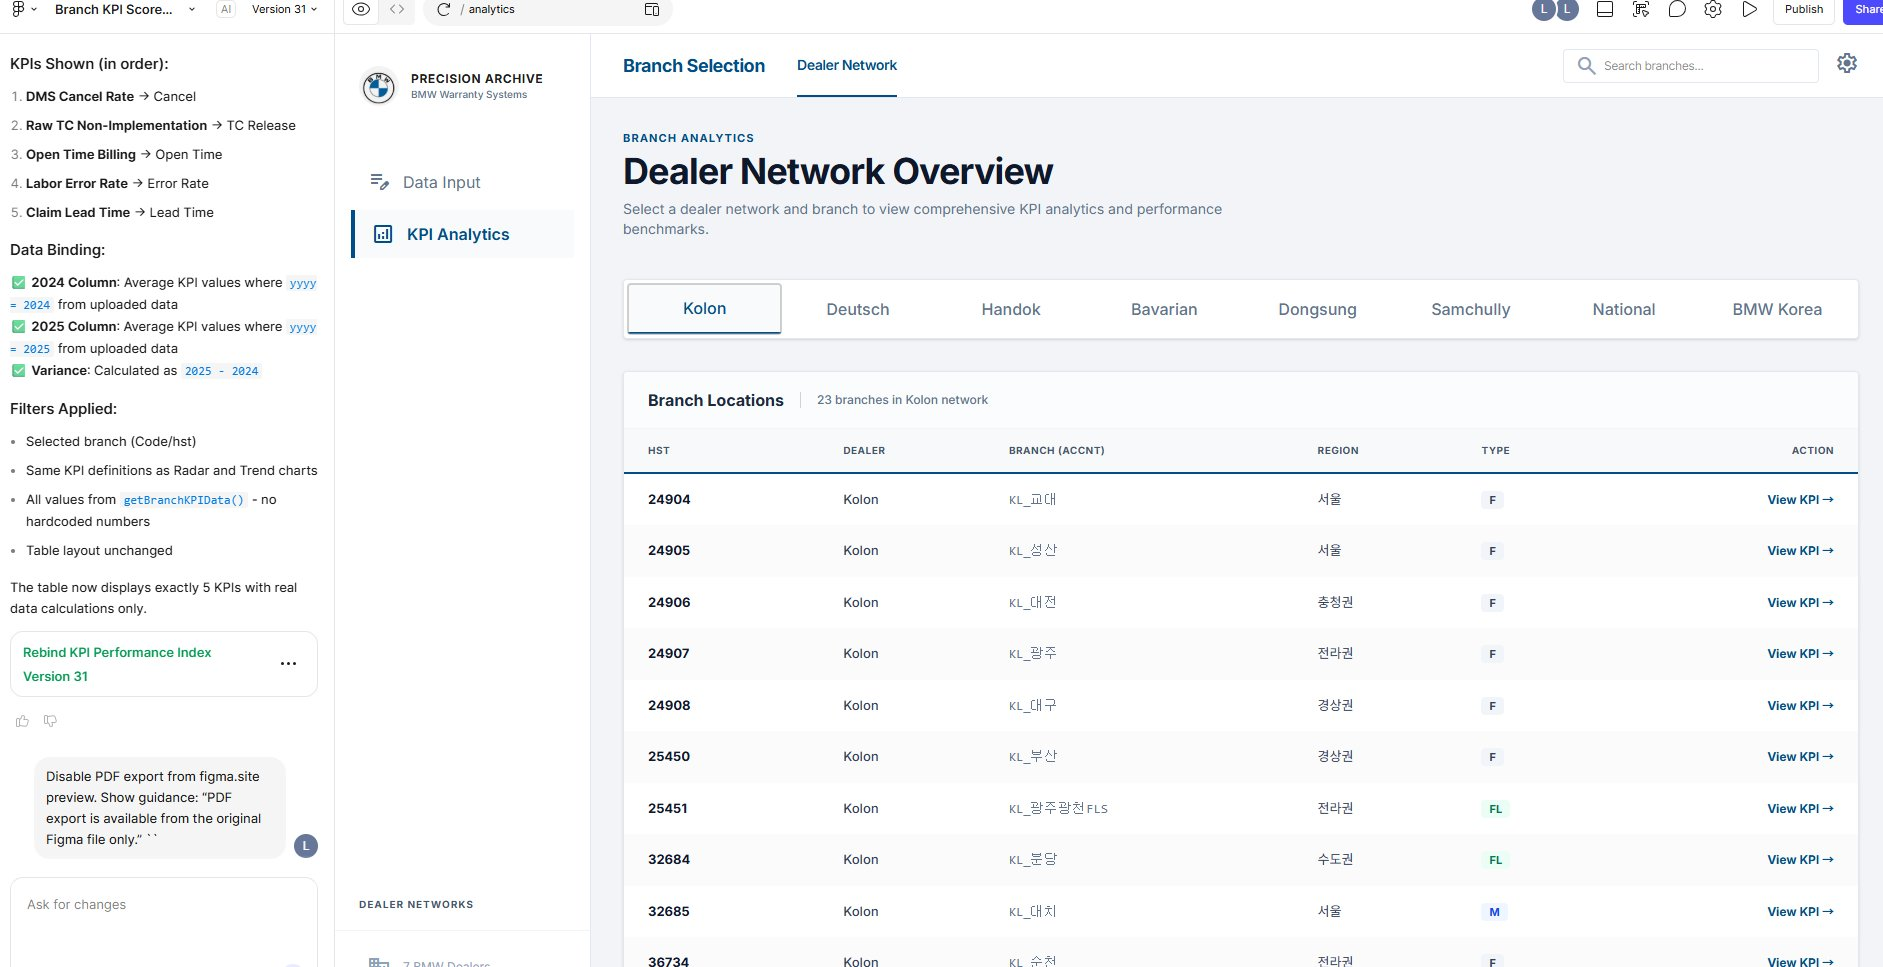
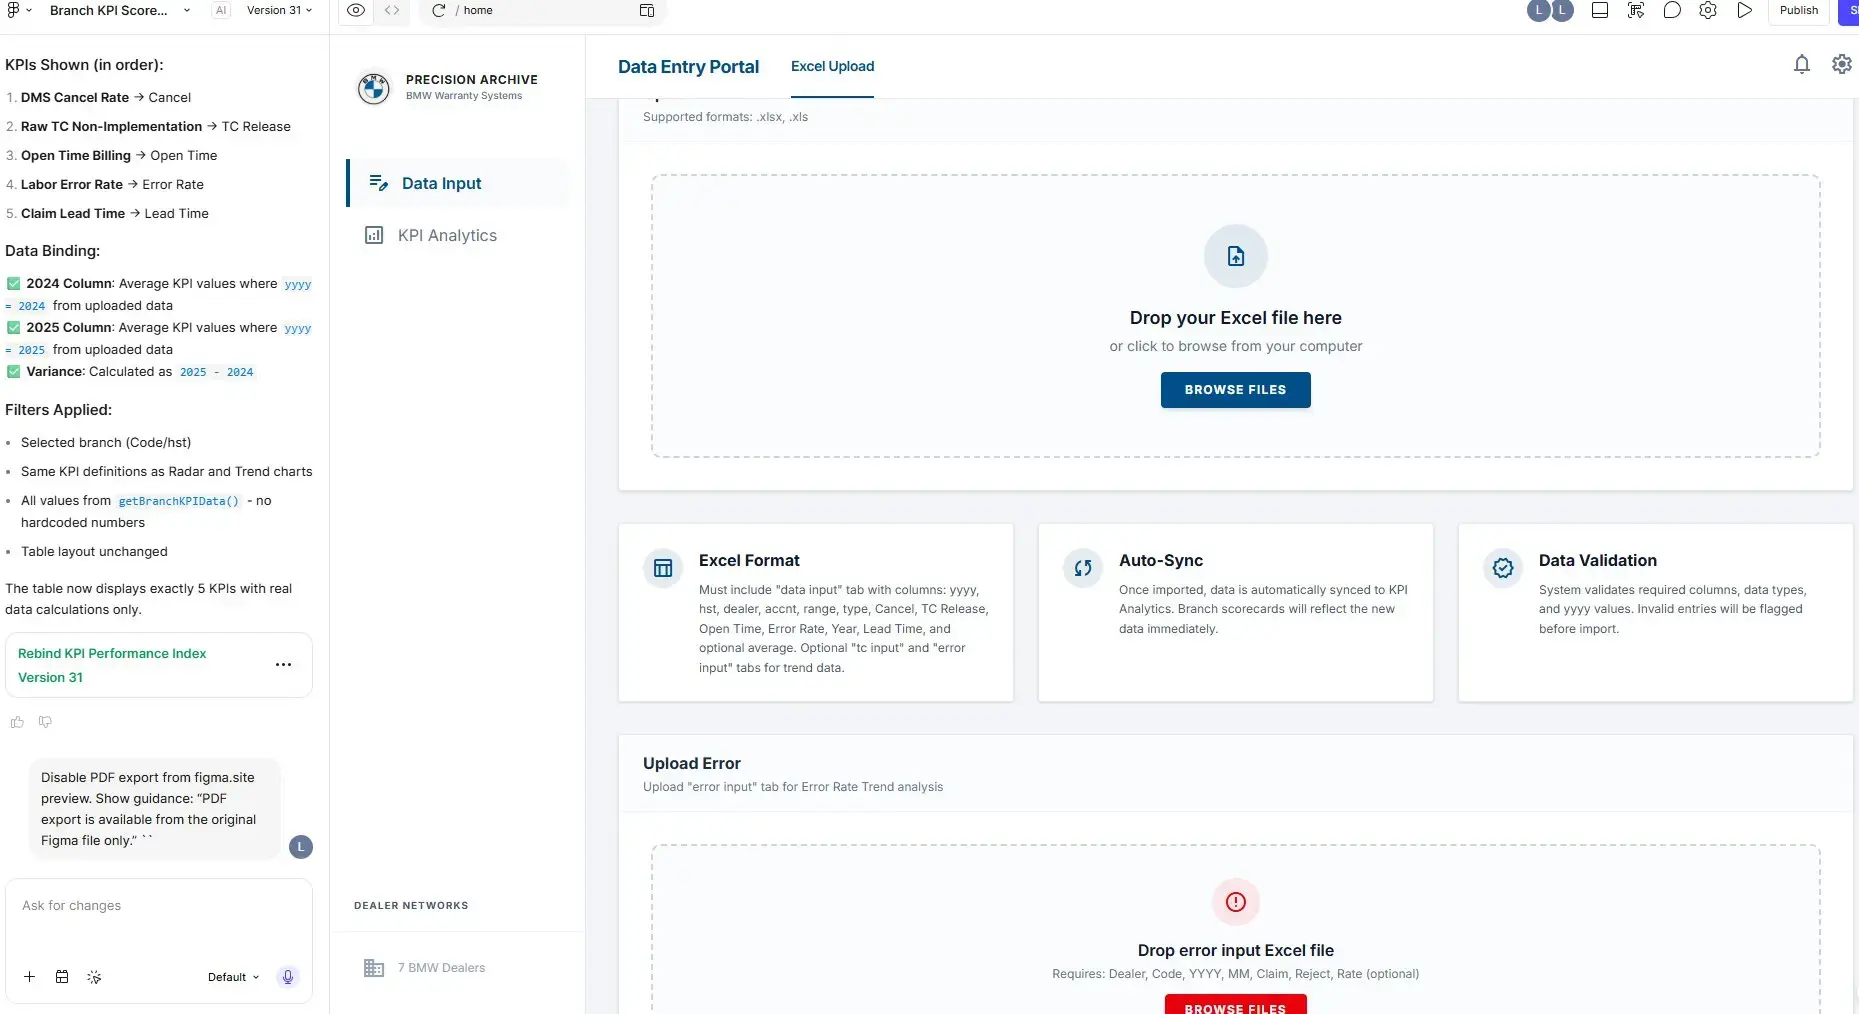
Replace BMW screenshot

diff --git a/app/projects/bmw/page.tsx b/app/projects/bmw/page.tsx
@@ -3,11 +3,11 @@ import Image from "next/image";
 
 const images = [
   {
-    src: "/images/bmw-02-network.png",
+    src: "/images/bmw-01-data-entry.png",
     caption: "Data Entry Portal — 엑셀 업로드로 자동 입력",
   },
   {
-    src: "/images/bmw-01-data-entry.png",
+    src: "/images/bmw-02-network.png",
     caption: "Dealer Network Overview — 전체 지점 현황",
   },
   {